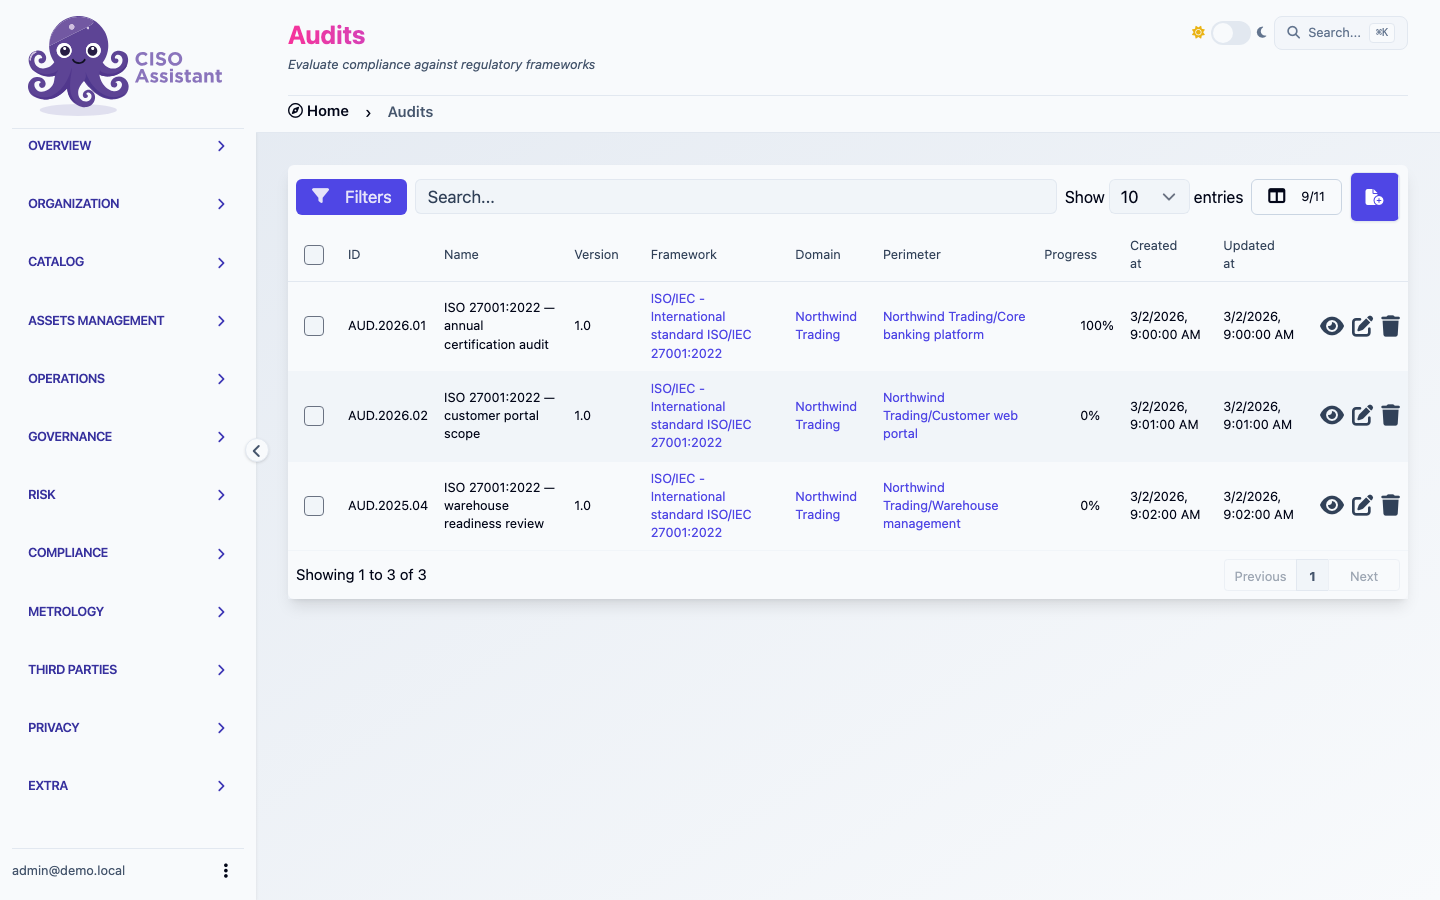
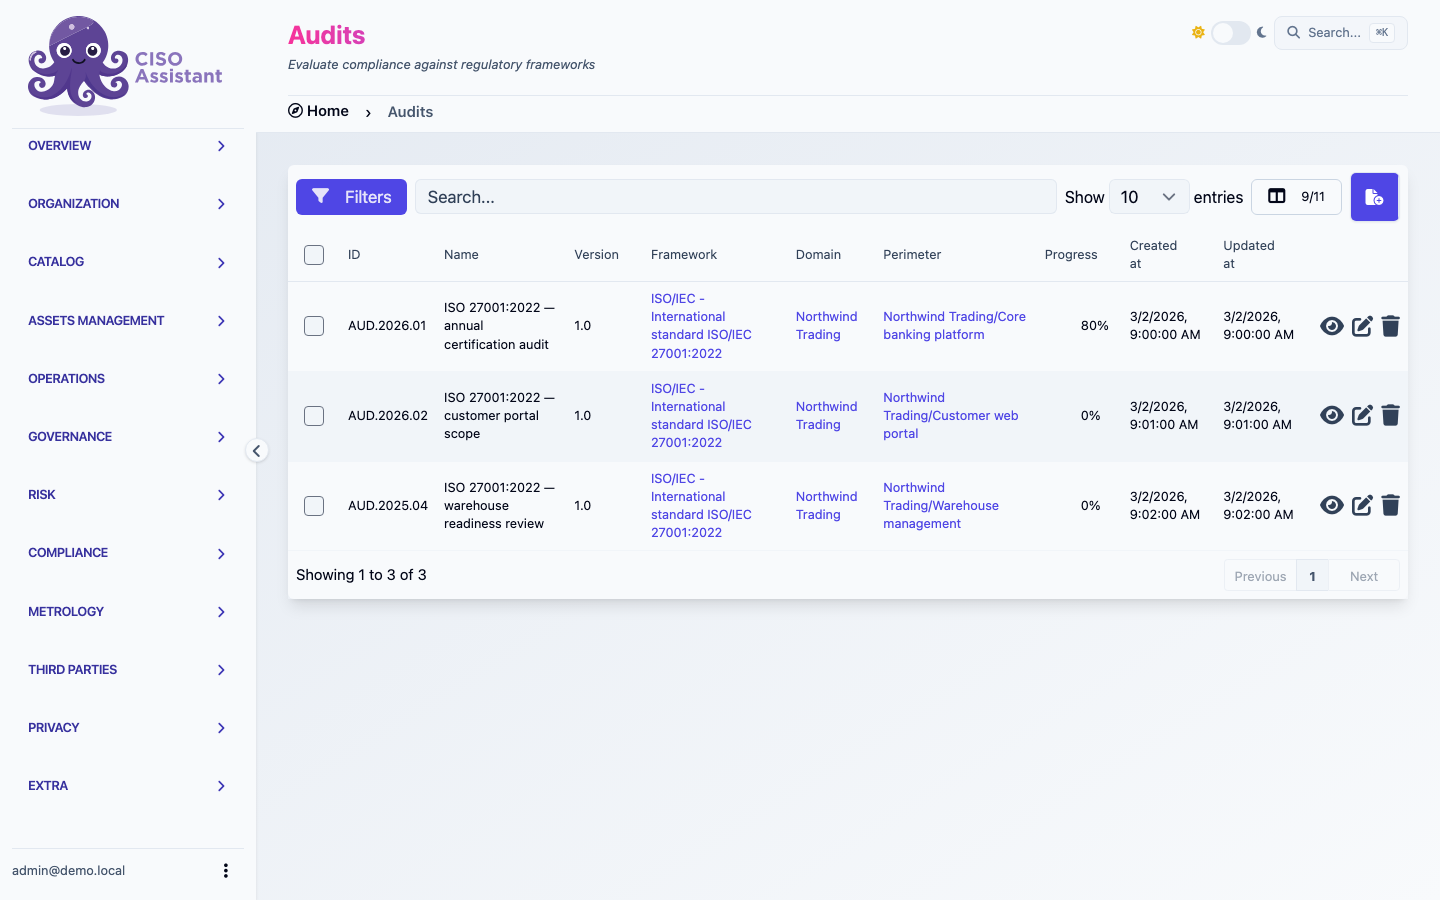
update

diff --git a/backend/core/management/commands/seed_docs_demo.py b/backend/core/management/commands/seed_docs_demo.py
@@ -205,17 +205,20 @@ SCENARIOS = [
 ]
 
 # Result distribution walked in order, so the compliance donut is stable.
+# Two of every ten are left unassessed on purpose: an audit whose every
+# requirement carries a verdict shows 100% progress, which contradicts its
+# "In progress" status in the list view.
 RESULT_CYCLE = [
     "compliant",
     "compliant",
     "partially_compliant",
     "compliant",
     "non_compliant",
-    "compliant",
+    "not_assessed",
     "partially_compliant",
     "not_applicable",
     "compliant",
-    "partially_compliant",
+    "not_assessed",
 ]
 
 
@@ -233,7 +236,14 @@ class Command(BaseCommand):
         random.seed(SEED)
 
         if options["flush"]:
-            deleted, _ = Folder.objects.filter(name=DOMAIN).delete()
+            # Scoped to a root-level demo domain: a bare name filter would
+            # cascade-delete any same-named folder anywhere in someone's tree,
+            # and run.sh passes --flush on every run.
+            deleted, _ = Folder.objects.filter(
+                name=DOMAIN,
+                parent_folder=Folder.get_root_folder(),
+                content_type=Folder.ContentType.DOMAIN,
+            ).delete()
             self.stdout.write(f"flushed {deleted} objects under {DOMAIN}")
 
         self.load_libraries()
@@ -264,26 +274,29 @@ class Command(BaseCommand):
         # Library-loaded referentials are stamped at import time, so they drift
         # too whenever the database is rebuilt — and their detail pages show
         # Created at / Updated at.
+        # The sort key has to be a natural, stable field. Falling back to `id`
+        # would hand the stagger itself a random order and reintroduce exactly
+        # the drift this method exists to remove — RequirementAssessment has no
+        # `name`, which is why the key is spelled out per model.
         models = (
-            Asset,
-            AppliedControl,
-            ComplianceAssessment,
-            Framework,
-            Perimeter,
-            RequirementAssessment,
-            RiskAssessment,
-            RiskMatrix,
-            RiskScenario,
-            Threat,
+            (Asset, "name"),
+            (AppliedControl, "name"),
+            (ComplianceAssessment, "name"),
+            (Framework, "name"),
+            (Perimeter, "name"),
+            (RequirementAssessment, "requirement__order_id"),
+            (RiskAssessment, "name"),
+            (RiskMatrix, "name"),
+            (RiskScenario, "name"),
+            (Threat, "name"),
         )
-        for model in models:
+        for model, order in models:
             fields = {f.name for f in model._meta.get_fields() if hasattr(f, "attname")}
             stamped = {"created_at", "updated_at"} & fields
             if not stamped:
                 continue
-            order = "name" if "name" in fields else "id"
             for offset, pk in enumerate(
-                model.objects.order_by(order).values_list("pk", flat=True)
+                model.objects.order_by(order, "pk").values_list("pk", flat=True)
             ):
                 stamp = base + timedelta(minutes=offset)
                 model.objects.filter(pk=pk).update(**{n: stamp for n in stamped})

diff --git a/frontend/tests/docs-screenshots/README.md b/frontend/tests/docs-screenshots/README.md
@@ -60,11 +60,12 @@ Add an entry to `manifest.ts`:
 
 ## Known caveats
 
-- **ECharts canvases are not byte-stable.** Every DOM-only shot reproduces
-  exactly across database rebuilds; chart pages differ by a handful of
-  antialiased pixels (measured: 114 px of 1,296,000, 0.009%, with identical
-  values and colours). Compare chart shots with a small pixel threshold rather
-  than a checksum.
+- **Chart pages have drifted once, intermittently.** All 13 shots now reproduce
+  byte-for-byte across two full database rebuilds, but an earlier pair of runs
+  showed `audit-detail`'s ECharts donut differing by 114 px of 1,296,000
+  (0.009%) with identical values and colours. It has not recurred. Treat chart
+  shots with a small pixel threshold rather than a checksum until there is
+  more evidence either way.
 - The sticky breadcrumb bar can overlap a clipped card near the top of a page.
 - Sidebar sections render collapsed; expand them in a `then` step if a shot
   needs a specific menu open.
